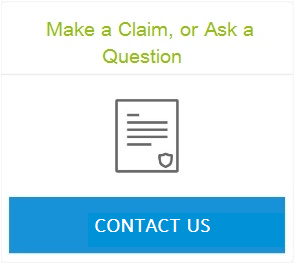
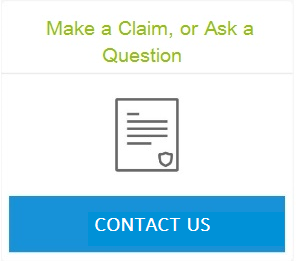
Add files via upload

diff --git a/www/index.html b/www/index.html
@@ -33,10 +33,20 @@
         <meta name="msapplication-tap-highlight" content="no">
         <meta name="viewport" content="user-scalable=no, initial-scale=1, maximum-scale=1, minimum-scale=1, width=device-width">
         <link rel="stylesheet" type="text/css" href="css/index.css">
-        <title>Hello World</title>
+        <title></title>
+
 <button>
 <img src="C:\Users\ageary\Desktop\InnovationChallengeCode\hello\www\img\ButtonForApp.png" />
 </button>
+
+<script>
+button.onclick="myFunction()">
+
+function myFunction() {
+  <body background="C:\Users\ageary\Desktop\InnovationChallengeApp\IC\www\img\SymphonyShot.png">
+button.style.visibility = "hidden";}
+</script>
+
     </head>
     <body>
         <div class="app">

diff --git a/www/css/index.css b/www/css/index.css
@@ -21,21 +21,23 @@
 }
 
 body {
+background-color: darkgrey;
     background-image: url(../img/MetlifeAppBackground.jpg);
    background-repeat: no-repeat;
     background-attachment: fixed;
     background-position: center; 
-   object-fit: scale-down;
-	width: 50px;
+   object-fit: scale-down;	
     
 }
 button{
 
   position: relative;
-  top: 308px;
-  left: 715px;
-padding: 0;
+  top: 369px;
+  left: 1252px;
+padding: 0px 0px;
 border: none;
 background: none;
+width: 3.5in;  height: 2.6in;
+cursor: pointer;
 }
 

diff --git a/www/js/index.js b/www/js/index.js
@@ -23,3 +23,6 @@ var app = {
 
 
 app.initialize();
+
+document.getElementById("demo").onclick = function () { var body = document.getElementsByTagName('body')[0];
+body.style.backgroundImage = 'url(C:\Users\ageary\Desktop\InnovationChallengeApp\IC\www\img\SymphonyShot)';};
